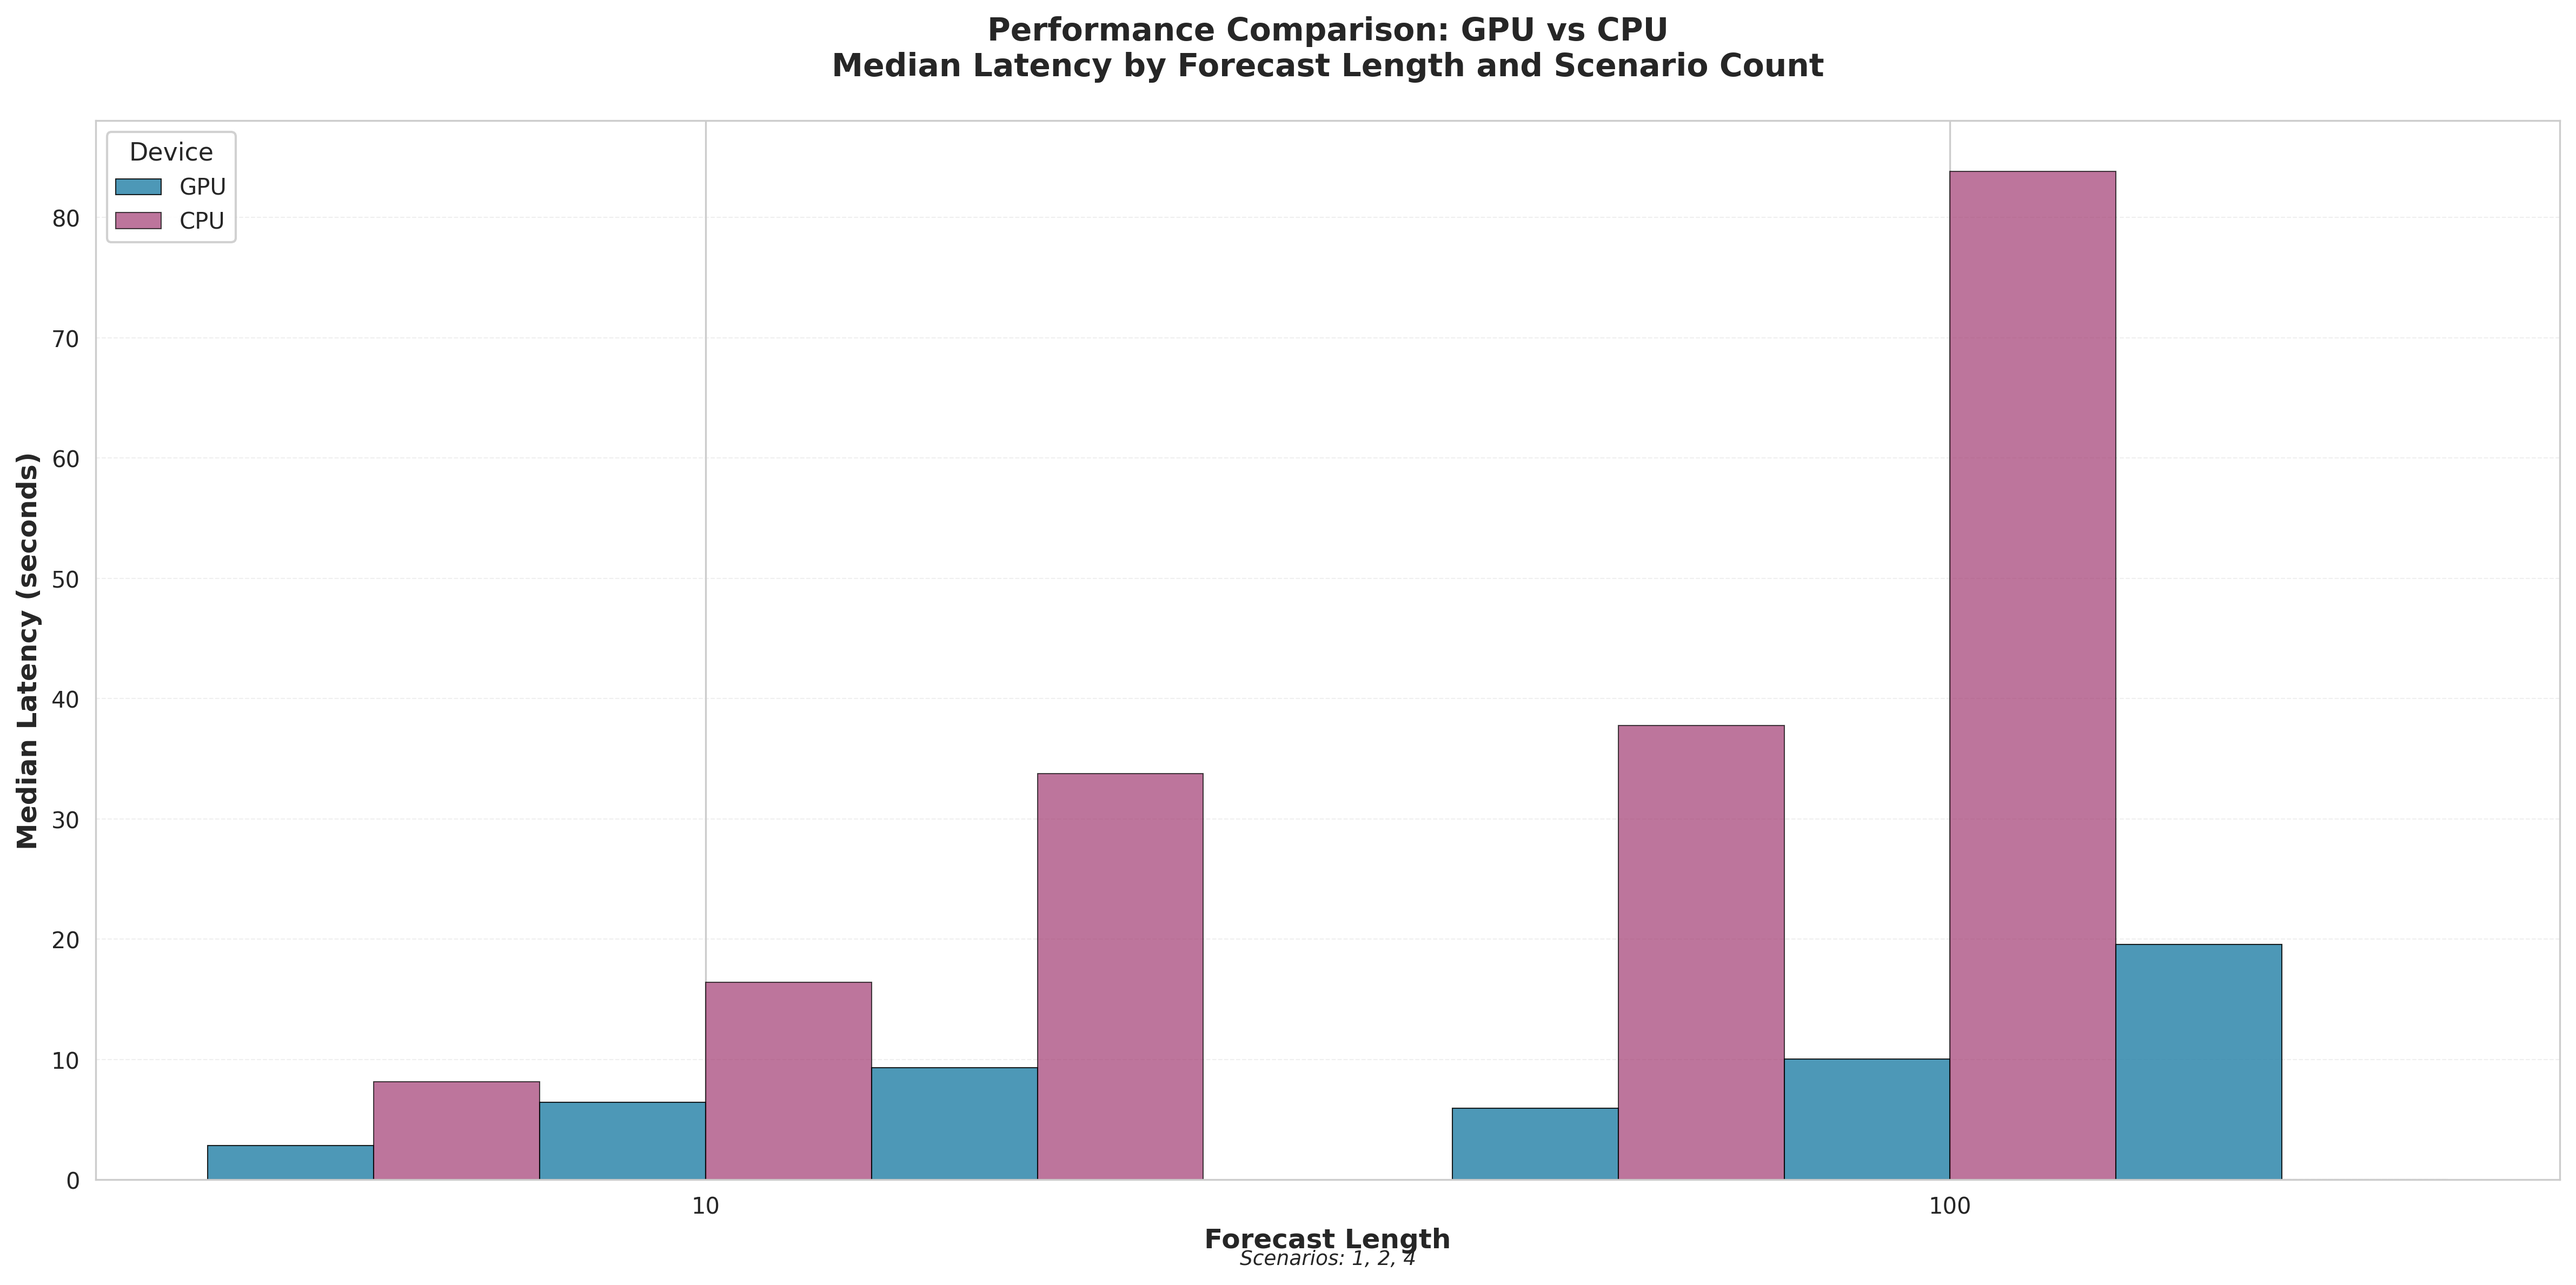
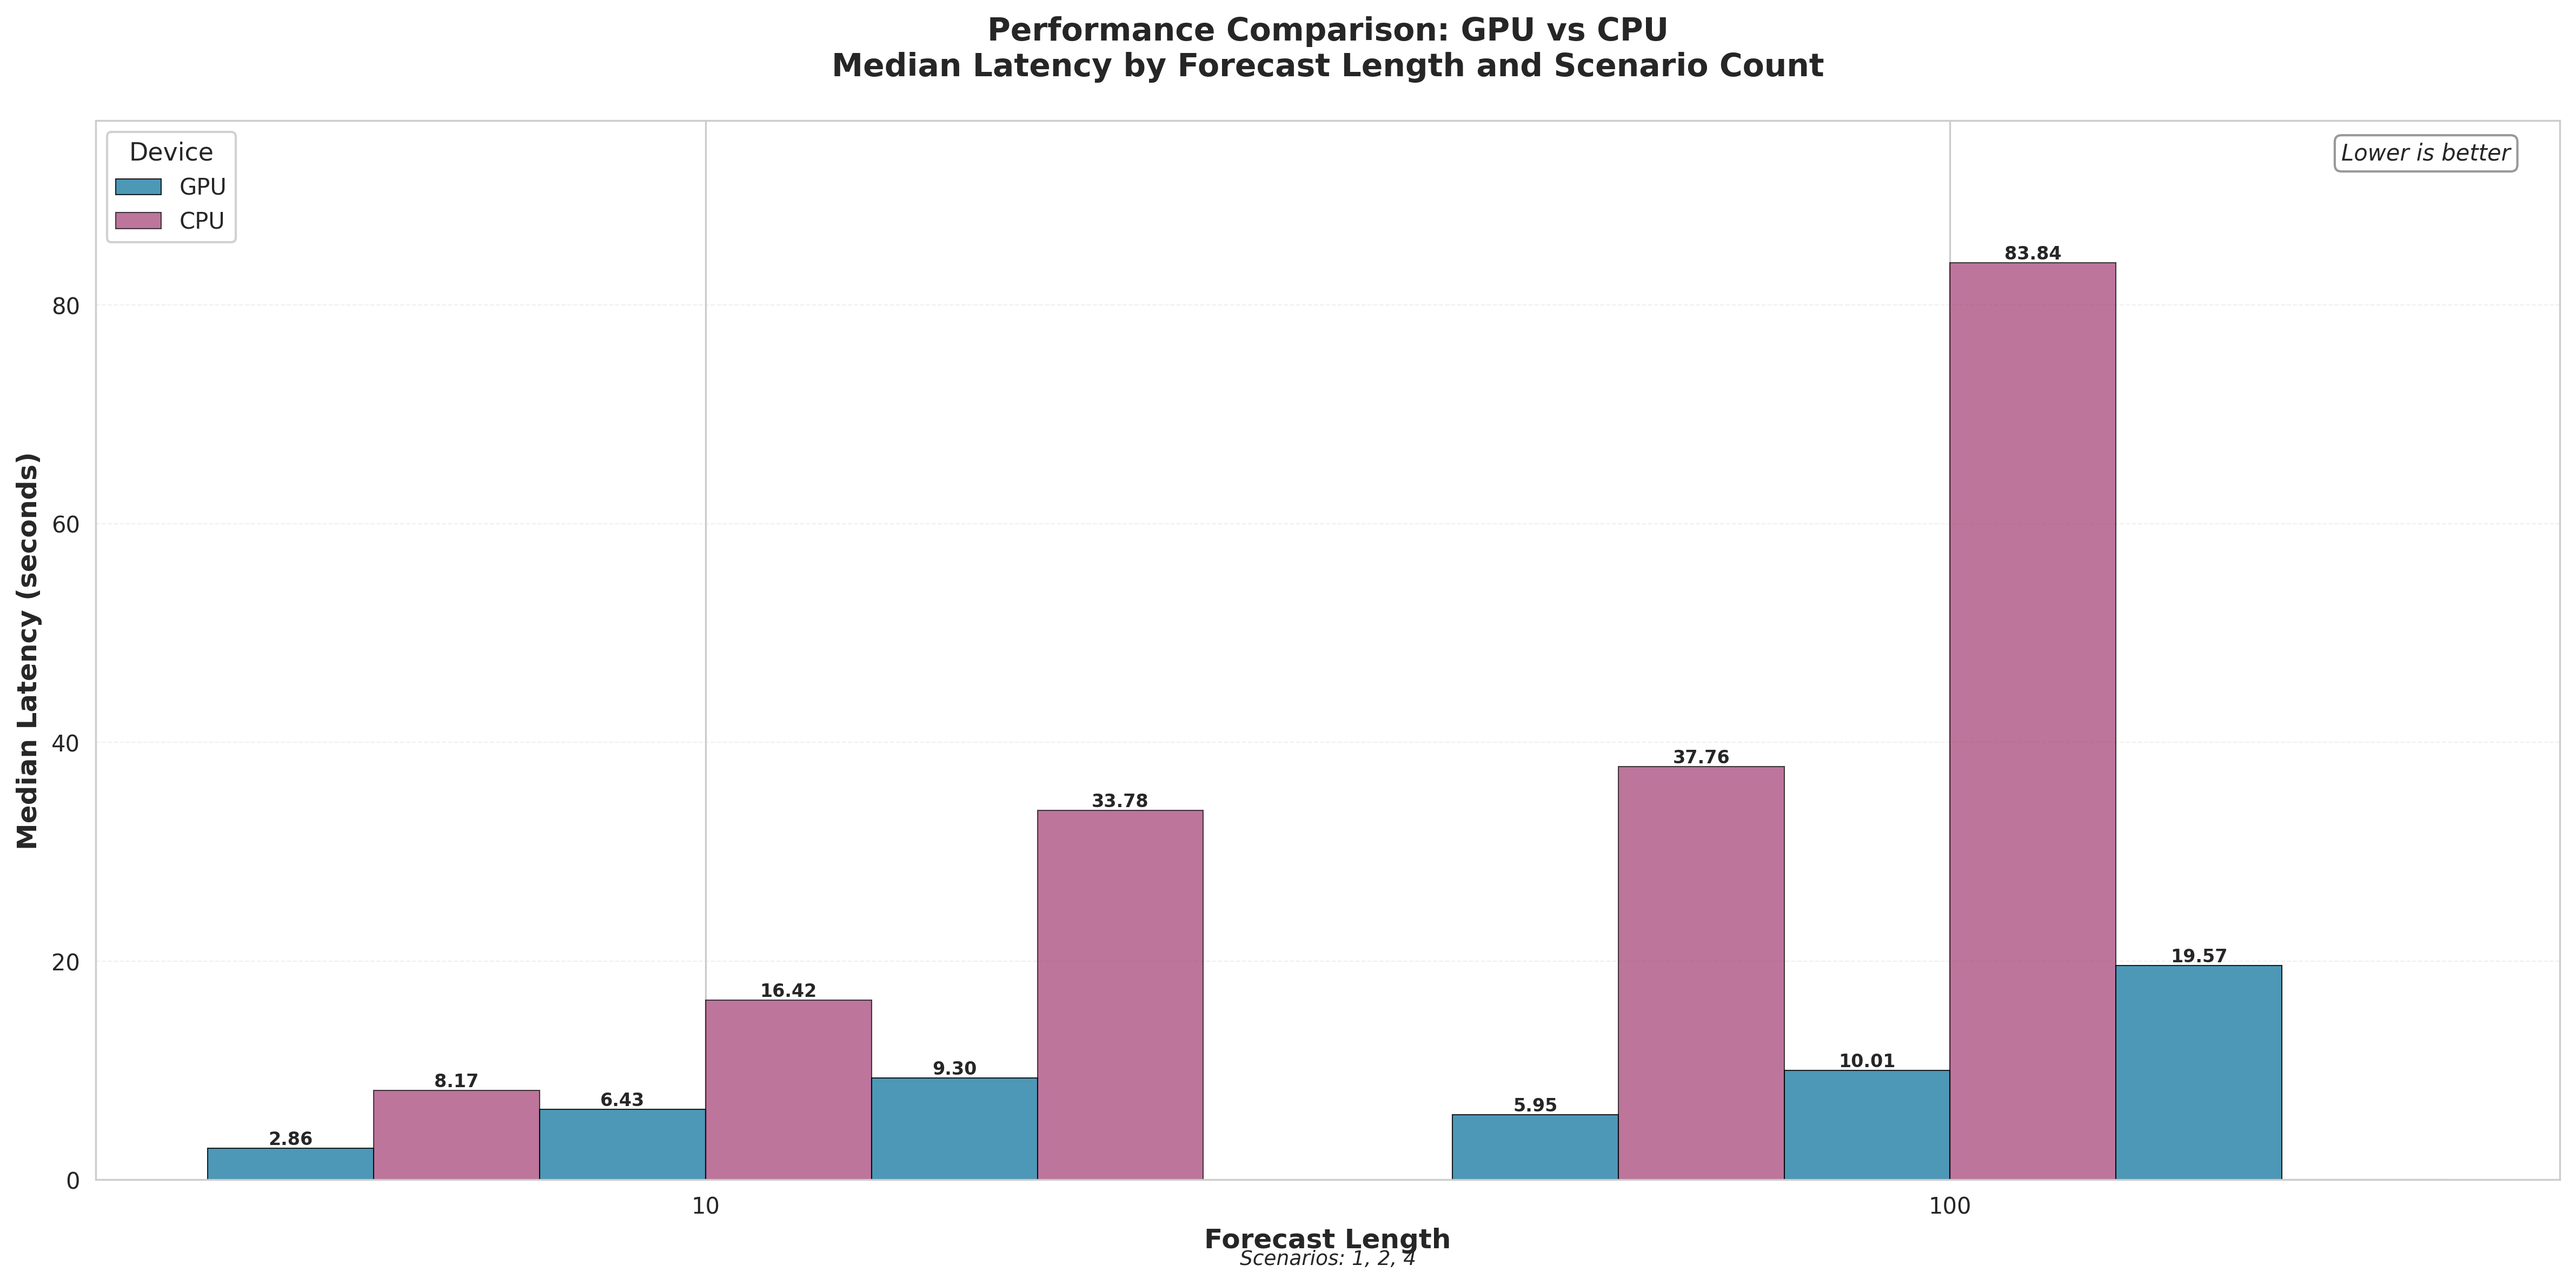
Improve visualization and use forecast length of 2

diff --git a/visualize_performance.py b/visualize_performance.py
@@ -10,7 +10,6 @@ and scenario counts.
 import argparse
 import re
 import sys
-from typing import List, Tuple
 
 import matplotlib.pyplot as plt
 import numpy as np
@@ -176,7 +175,7 @@ def create_visualization(
             # Label only for first scenario to avoid duplicates in legend
             label = device if i == 0 else ""
 
-            ax.bar(
+            bars = ax.bar(
                 scenario_base + device_offset,
                 values,
                 bar_width,
@@ -186,6 +185,20 @@ def create_visualization(
                 edgecolor="black",
                 linewidth=0.5,
             )
+            
+            # Add latency labels on top of each bar
+            for bar, value in zip(bars, values):
+                if value > 0:  # Only label non-zero bars
+                    height = bar.get_height()
+                    ax.text(
+                        bar.get_x() + bar.get_width() / 2,
+                        height,
+                        f"{value:.2f}",
+                        ha="center",
+                        va="bottom",
+                        fontsize=8,
+                        fontweight="bold",
+                    )
 
     # Customize the plot
     ax.set_xlabel("Forecast Length", fontsize=12, fontweight="bold")
@@ -201,6 +214,19 @@ def create_visualization(
     ax.set_xticks(x)
     ax.set_xticklabels(forecast_lengths)
 
+    # Add "Lower is better" note in top right corner
+    ax.text(
+        0.98,
+        0.98,
+        "Lower is better",
+        transform=ax.transAxes,
+        ha="right",
+        va="top",
+        fontsize=10,
+        style="italic",
+        bbox=dict(boxstyle="round,pad=0.3", facecolor="white", alpha=0.8, edgecolor="gray"),
+    )
+
     # Add legend
     ax.legend(
         title="Device",
@@ -214,7 +240,10 @@ def create_visualization(
     ax.grid(axis="y", alpha=0.3, linestyle="--", linewidth=0.5)
 
     # Set y-axis to start from 0 for better comparison
+    # Add top margin to accommodate bar labels
     ax.set_ylim(bottom=0)
+    y_max = ax.get_ylim()[1]
+    ax.set_ylim(top=y_max * 1.1)  # Add 10% margin at top for labels
 
     # Add scenario count annotations below x-axis labels
     # This helps identify which bars correspond to which scenario count

diff --git a/performance_test.py b/performance_test.py
@@ -527,7 +527,7 @@ def main():
         {"name": "CPU", "url": args.cpu_url, "model": args.cpu_model},
     ]
 
-    forecast_lengths = [10, 100]
+    forecast_lengths = [2, 10, 100]
     num_scenarios_list = [1, 2, 4]
 
     print("Synthefy Forecasting API Performance Test")
